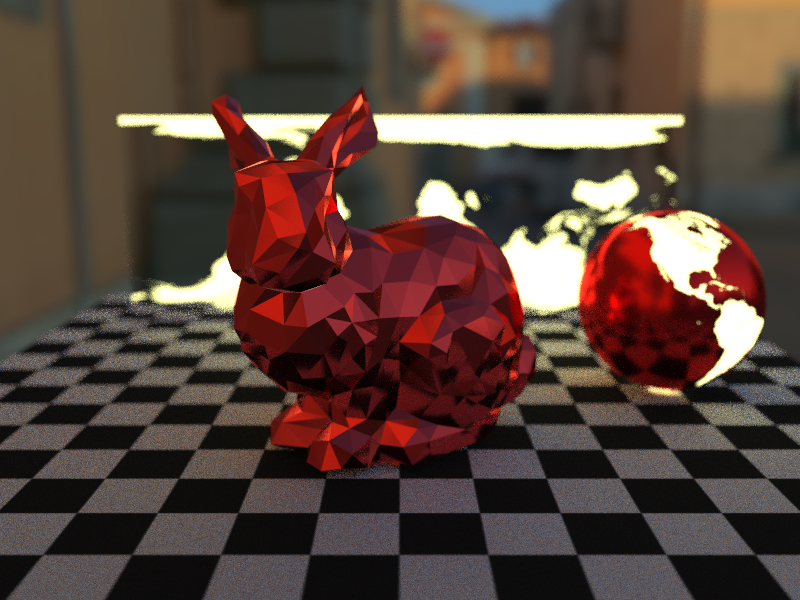
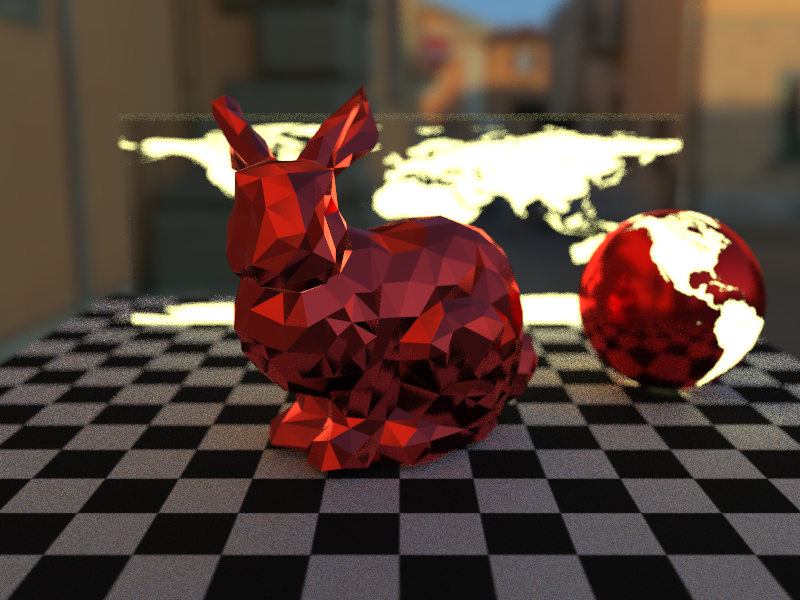
Fix uv upside down bug

diff --git a/src/scene.rs b/src/scene.rs
@@ -56,7 +56,7 @@ impl Intersectable for Sphere {
             intersection.distance = t;
             intersection.normal = (intersection.position - self.center).normalize();
 
-            intersection.uv.y = intersection.normal.y.acos() / config::PI;
+            intersection.uv.y = 1.0 - intersection.normal.y.acos() / config::PI;
             intersection.uv.x = 0.5
                 - intersection.normal.z.signum()
                 * (intersection.normal.x / intersection.normal.xz().length()).acos()
@@ -233,21 +233,21 @@ impl Skybox {
 
         if abs_x > abs_y && abs_x > abs_z {
             if direction.x.is_sign_positive() {
-                self.px_texture.sample_bilinear_0center(-direction.z / direction.x, -direction.y / direction.x)
+                self.px_texture.sample_bilinear_0center(-direction.z / direction.x, direction.y / direction.x)
             } else {
-                self.nx_texture.sample_bilinear_0center(-direction.z / direction.x, direction.y / direction.x)
+                self.nx_texture.sample_bilinear_0center(-direction.z / direction.x, -direction.y / direction.x)
             }
         } else if abs_y > abs_x && abs_y > abs_z {
             if direction.y.is_sign_positive() {
-                self.py_texture.sample_bilinear_0center(direction.x / direction.y, direction.z / direction.y)
+                self.py_texture.sample_bilinear_0center(direction.x / direction.y, -direction.z / direction.y)
             } else {
-                self.ny_texture.sample_bilinear_0center(-direction.x / direction.y, direction.z / direction.y)
+                self.ny_texture.sample_bilinear_0center(-direction.x / direction.y, -direction.z / direction.y)
             }
         } else {
             if direction.z.is_sign_positive() {
-                self.pz_texture.sample_bilinear_0center(direction.x / direction.z, -direction.y / direction.z)
+                self.pz_texture.sample_bilinear_0center(direction.x / direction.z, direction.y / direction.z)
             } else {
-                self.nz_texture.sample_bilinear_0center(direction.x / direction.z, direction.y / direction.z)
+                self.nz_texture.sample_bilinear_0center(direction.x / direction.z, -direction.y / direction.z)
             }
         }
     }

diff --git a/src/texture.rs b/src/texture.rs
@@ -57,7 +57,7 @@ impl ImageTexture {
 
     fn sample_nearest_screen(&self, x: u32, y: u32) -> Vector3 {
         let x = clamp_u32(x,0, self.image.width() - 1);
-        let y = clamp_u32(y, 0, self.image.height() - 1);
+        let y = clamp_u32(self.image.height() - y - 1, 0, self.image.height() - 1);
         rgba_to_color(self.image.get_pixel(x, y))
     }
 }
